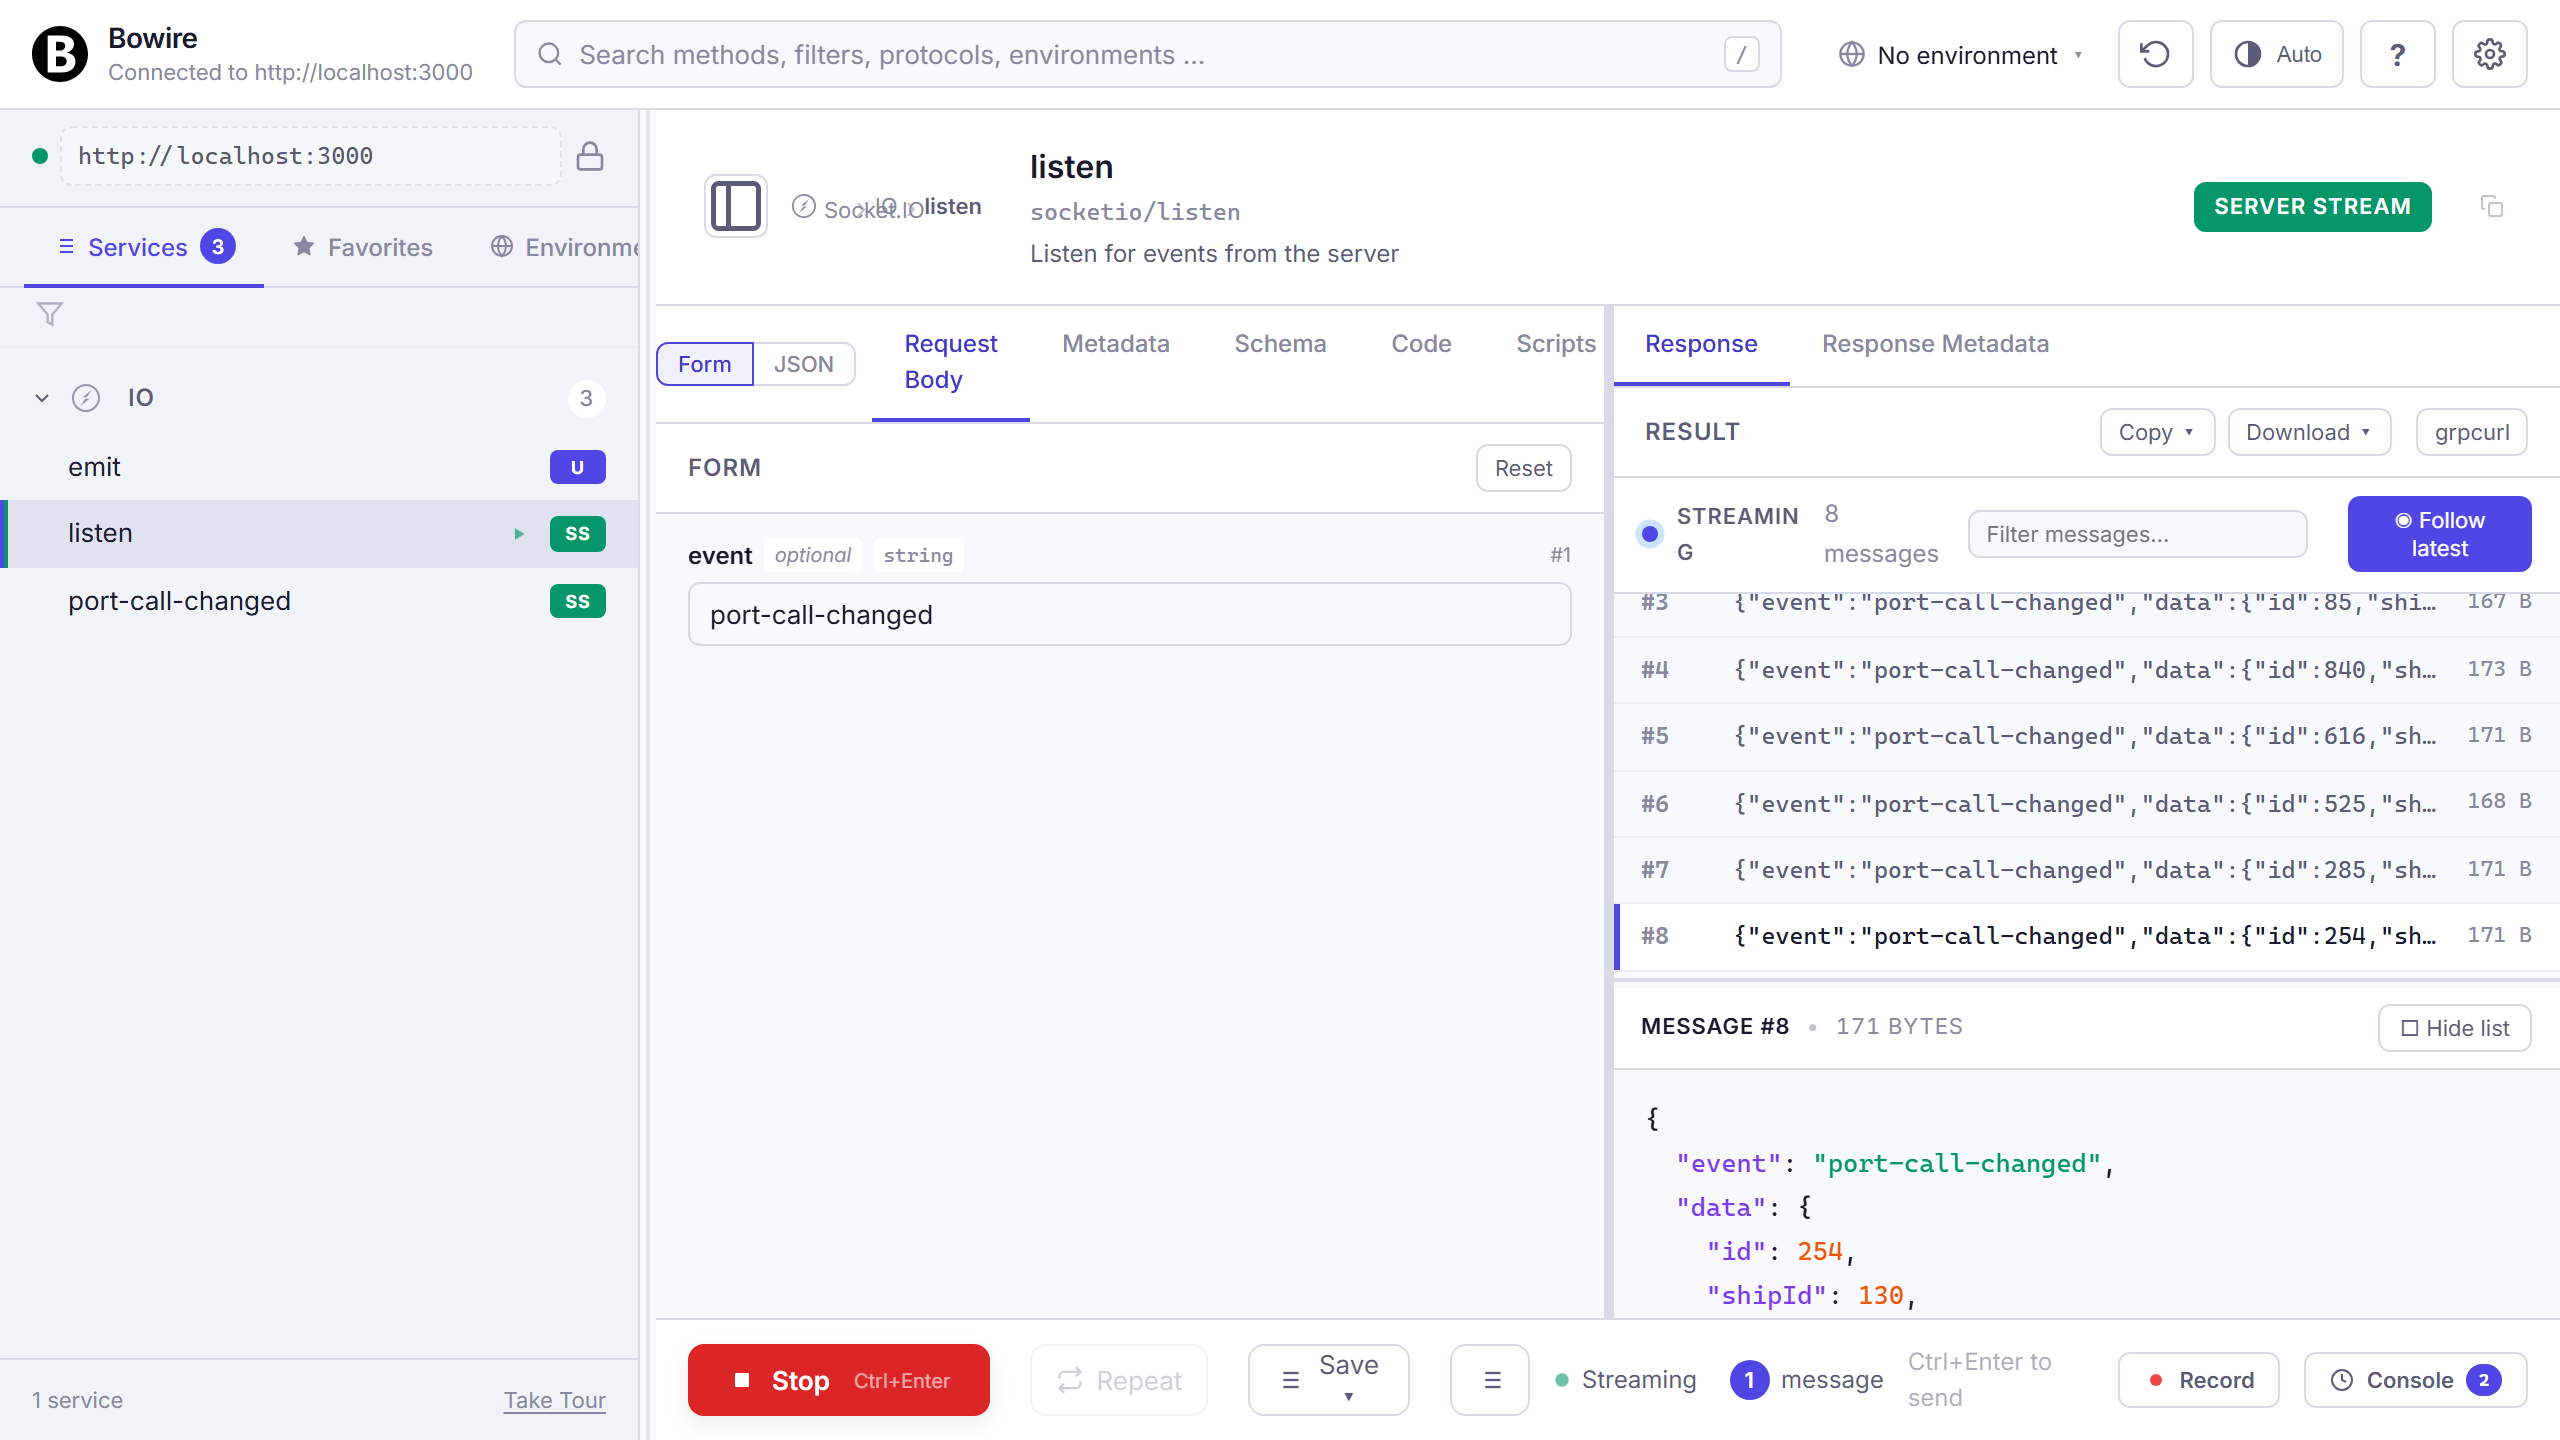
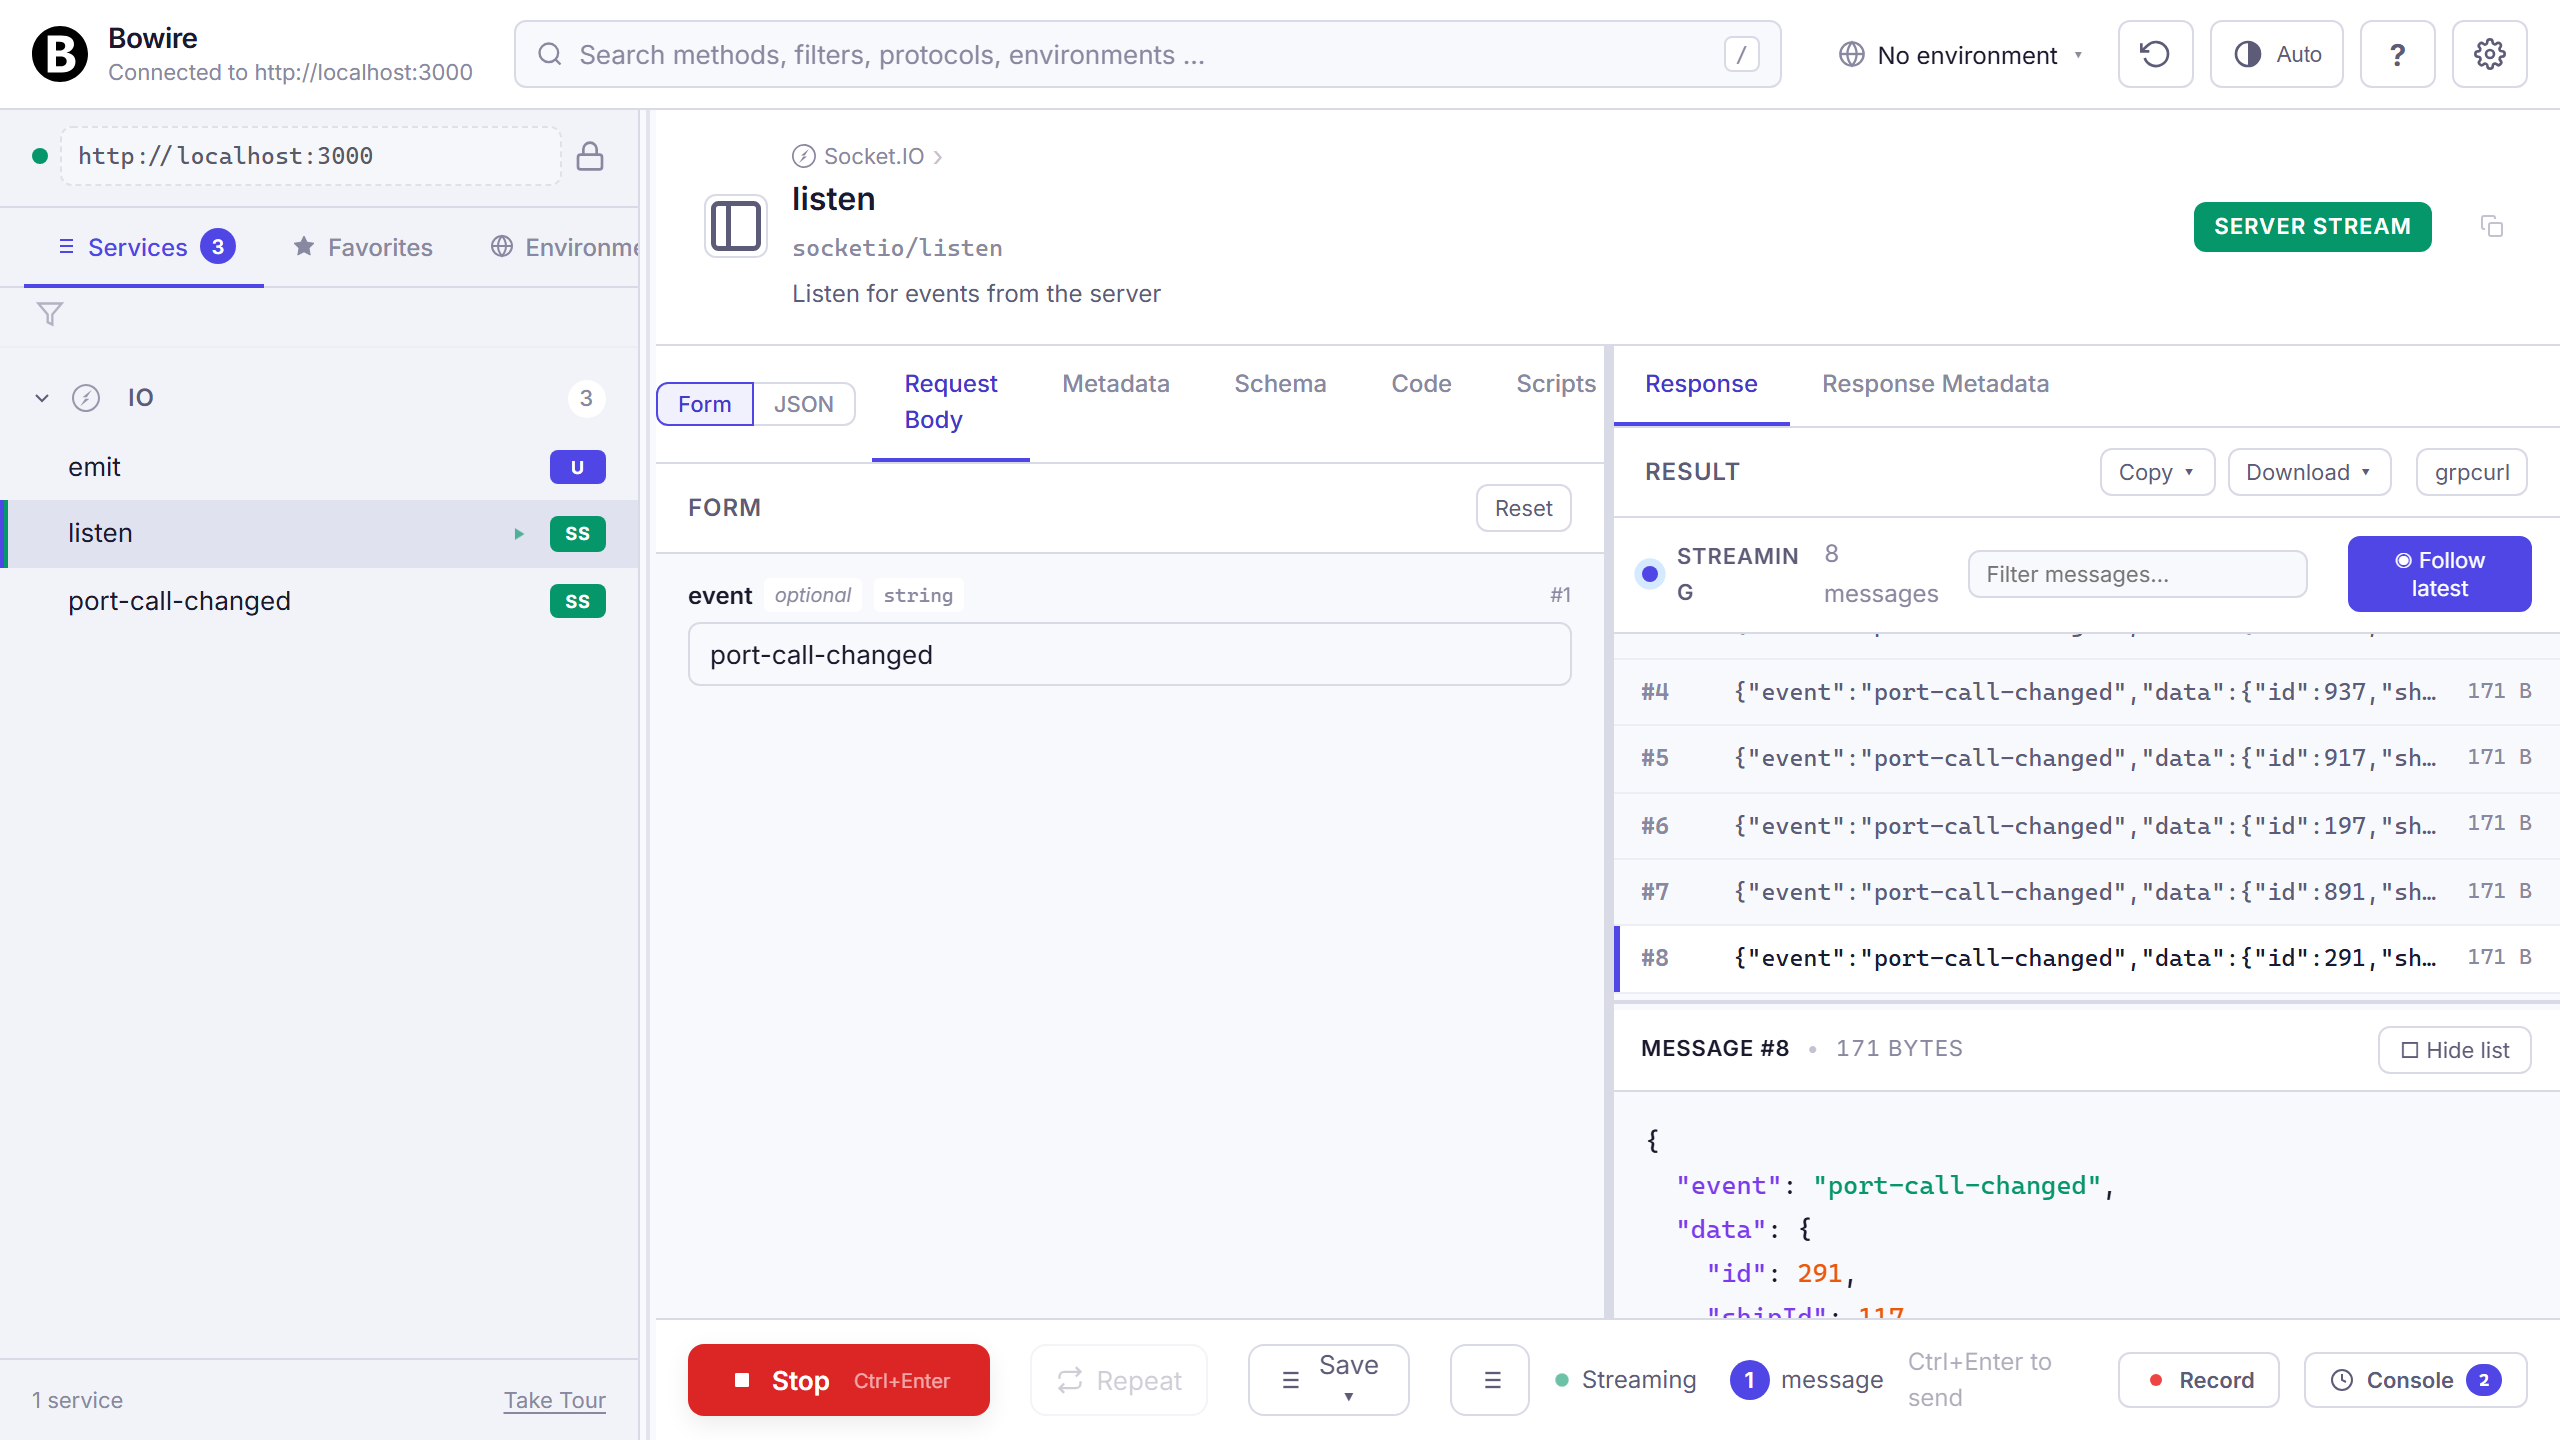
release: 1.0.10 — method-detail header layout fix
Reported on the Socket.IO protocol-card popup screenshot: the
header rendered the protocol name `Socket.IO` inside a 12×12 icon
slot, which let it overflow horizontally and collide with the
large method-name title (`Sock|listen|tIO` artefact). Plus the
method name was duplicated — once as the breadcrumb's current
segment, once as the prominent header title.

Fixes
- render-main.js used `bowire-breadcrumb-icon` (12×12) for the
  multi-character protocol-name span. Switched to
  `bowire-breadcrumb-item` so the text flows in a normal inline
  span. Removes the `Sock|...|tIO` overlap.
- Method-name duplication — drop the breadcrumb's terminal method
  segment. Breadcrumb now reads `Protocol > Service`, the method
  name is the title alone.
- Service-name dot-prefix trim was too aggressive —
  `selectedService.name.split('.').pop()` turned `Socket.IO` into
  `IO` and `Akka.Actor.Tap` into `Tap`. Only trim when the last
  segment is ≥ 4 characters.
- Suppress the service segment entirely when it would duplicate
  the protocol name (single-service plugins like Socket.IO where
  the service is literally named `Socket.IO`). No more
  `Socket.IO > Socket.IO`.

Layout structure
- `bowire-header-info` is now a column-flex container that holds
  breadcrumb → method-name → fullName-path → summary. Previously
  breadcrumb sat as a sibling row to the right of the toggle
  button, so a short Protocol > Service trail and a short method
[…]

diff --git a/src/Kuestenlogik.Bowire/wwwroot/js/render-main.js b/src/Kuestenlogik.Bowire/wwwroot/js/render-main.js
@@ -733,8 +733,10 @@
         header.appendChild(toggleBtn);
 
         if (selectedMethod) {
-            // Breadcrumb: Protocol > Service > Method — each segment
-            // is clickable to navigate up one level.
+            // Breadcrumb: Protocol > Service. The method name is rendered
+            // separately as headerName below (at a much larger size), so
+            // leaving it out of the breadcrumb avoids the visual stutter
+            // that used to put two `listen`s next to each other.
             var breadcrumb = el('div', { className: 'bowire-breadcrumb' });
             if (selectedService && selectedService.source) {
                 var proto = protocols.find(function (p) { return p.id === selectedService.source; });
@@ -754,14 +756,45 @@
                             }
                         }
                     }));
-                    breadcrumb.appendChild(el('span', { className: 'bowire-breadcrumb-icon', textContent: proto.name }));
+                    // BUG fix: this used to use 'bowire-breadcrumb-icon'
+                    // (the 12×12 icon slot) for a multi-character text label,
+                    // which let the protocol name overflow its container and
+                    // collide with whatever sat to the right of the breadcrumb.
+                    breadcrumb.appendChild(el('span', { className: 'bowire-breadcrumb-item', textContent: proto.name }));
                     breadcrumb.appendChild(el('span', { className: 'bowire-breadcrumb-sep', textContent: '\u203A' }));
                 }
             }
             if (selectedService) {
-                breadcrumb.appendChild(el('span', {
-                    className: 'bowire-breadcrumb-item clickable',
-                    textContent: selectedService.name.split('.').pop(),
+                // Service is the breadcrumb's terminal segment now \u2014 the
+                // method name is rendered separately as headerName below
+                // (and at a much larger size), so duplicating it inside
+                // the breadcrumb just produced a `\u2026 \u203A listen   listen`
+                // visual stutter at narrow widths.
+                // Trim the namespace prefix only when it looks like a
+                // proto-style FQN (e.g. `weather.WeatherService` → `WeatherService`).
+                // Service names that *end* with a dotted token (e.g. `Socket.IO`,
+                // `Akka.Actor.Tap`) keep their full name — splitting them would
+                // produce nonsense like `Socket.IO` → `IO`.
+                var svcDisplayName = selectedService.name;
+                if (svcDisplayName.includes('.')) {
+                    var lastToken = svcDisplayName.split('.').pop();
+                    if (lastToken.length >= 4) svcDisplayName = lastToken;
+                }
+
+                // When the service name matches the plugin's display name
+                // exactly (e.g. Socket.IO plugin exposes one service literally
+                // named 'Socket.IO'), drop this segment so the breadcrumb
+                // doesn't read 'Socket.IO > Socket.IO'. Multi-service
+                // protocols like gRPC have per-call distinct names so this
+                // only kicks in for single-service plugins.
+                var protoForCheck = selectedService.source
+                    ? protocols.find(function (p) { return p.id === selectedService.source; })
+                    : null;
+                var skipServiceSegment = protoForCheck && protoForCheck.name === svcDisplayName;
+
+                if (!skipServiceSegment) breadcrumb.appendChild(el('span', {
+                    className: 'bowire-breadcrumb-item current',
+                    textContent: svcDisplayName,
                     title: selectedService.name,
                     onClick: function () {
                         // Expand this service in the sidebar, close active tab
@@ -775,13 +808,7 @@
                         }
                     }
                 }));
-                breadcrumb.appendChild(el('span', { className: 'bowire-breadcrumb-sep', textContent: '\u203A' }));
             }
-            breadcrumb.appendChild(el('span', {
-                className: 'bowire-breadcrumb-item current',
-                textContent: selectedMethod.name
-            }));
-            header.appendChild(breadcrumb);
 
             var headerName = el('div', { className: 'bowire-header-method' + (selectedMethod.deprecated ? ' deprecated' : '') });
             headerName.appendChild(document.createTextNode(selectedMethod.name));
@@ -789,7 +816,13 @@
                 headerName.appendChild(el('span', { className: 'bowire-header-deprecated', textContent: 'DEPRECATED' }));
             }
 
+            // Stack breadcrumb + method-name + path + summary vertically
+            // inside the same column-flex container. Previously breadcrumb
+            // sat in a sibling row to the right of the toggle button, so a
+            // short Protocol > Service trail and a short method name landed
+            // on the same horizontal axis and overlapped at narrower widths.
             const info = el('div', { className: 'bowire-header-info' },
+                breadcrumb,
                 headerName,
                 el('div', { className: 'bowire-header-path', textContent: selectedMethod.fullName })
             );

diff --git a/src/Kuestenlogik.Bowire/wwwroot/bowire.css b/src/Kuestenlogik.Bowire/wwwroot/bowire.css
@@ -1947,6 +1947,9 @@ img.bowire-logo-icon {
 .bowire-header-info {
     flex: 1;
     min-width: 0;
+    display: flex;
+    flex-direction: column;
+    gap: 2px;
 }
 
 .bowire-header-method {
@@ -4116,14 +4119,17 @@ details[open] > .bowire-json-tree-summary::before {
 }
 .bowire-header-copy-url svg { width: 100%; height: 100%; }
 
-/* Breadcrumb navigation: Protocol > Service > Method */
+/* Breadcrumb navigation: Protocol > Service. Sits inside .bowire-header-info
+ * stacked above the method-name title — it provides the navigational
+ * context, the headerName provides the prominent label.
+ */
 .bowire-breadcrumb {
     display: flex;
     align-items: center;
     gap: 4px;
-    margin-right: 12px;
     font-size: 11px;
     color: var(--bowire-text-tertiary);
+    line-height: 1;
 }
 .bowire-breadcrumb-item {
     display: inline-flex;

diff --git a/CHANGELOG.md b/CHANGELOG.md
@@ -1,5 +1,43 @@
 # Changelog
 
+## v1.0.10 — Method-detail header layout fix (2026-05-05)
+
+### Fixes
+- **Method-detail header rendered the protocol name in a 12×12 icon
+  slot**, which let it overflow horizontally and collide with the
+  large method-name title on the right. Most visible on Socket.IO
+  where it produced a `Sock|listen|tIO` overlap. The protocol-name
+  span now uses the regular `bowire-breadcrumb-item` class so it
+  flows alongside its sibling tokens.
+- **Method name was duplicated** — once as the breadcrumb's
+  current segment, once as the prominent header title. Dropped
+  the breadcrumb's method segment; breadcrumb now reads
+  `Protocol > Service` and the method name is the title alone.
+- **Service-name dot-prefix trim was too aggressive** —
+  `selectedService.name.split('.').pop()` turned `Socket.IO` into
+  `IO` and `Akka.Actor.Tap` into `Tap`. Trim only when the last
+  segment is at least 4 characters; otherwise show the full name.
+- **Service segment is suppressed entirely** when it would just
+  duplicate the protocol name (single-service plugins like
+  Socket.IO, where service-name == plugin-name). No more
+  `Socket.IO > Socket.IO`.
+
+### Site / docs
+- Re-captured `streaming-socketio-{dark,light}.png` and
+  `streaming-mqtt-{dark,light}.png` with the new vertically-stacked
+  header. The other protocol-card screenshots have distinct
+  service names so the old horizontal layout already rendered
+  cleanly there — they'll pick up the same vertical stack on the
+  next refresh but no visual regression today.
+
+### Layout structure
+- `bowire-header-info` is now a column-flex container that holds
+  breadcrumb → method-name → fullName-path → optional summary.
+  Previously breadcrumb sat as a sibling row to the right of the
+  toggle button, which let a short Protocol > Service trail land
+  on the same horizontal axis as a short method-name title and
+  overlap at narrow widths.
+
 ## v1.0.9 — HttpClient factory + gRPC SocketsHttpHandler + Socket.IO fix (2026-05-05)
 
 Stable release of the cert-trust generalisation. Promotes the rc.1 +

diff --git a/ROADMAP.md b/ROADMAP.md
@@ -2,6 +2,13 @@
 
 ## Completed
 
+### v1.0.10 — Method-detail header layout fix (2026-05-05)
+- [x] **Protocol-name in icon slot** — render-main.js used `bowire-breadcrumb-icon` (12×12) for the multi-character protocol-name span; the text overflowed the slot and collided with the method-title on the right. Most visible on Socket.IO. Fixed to `bowire-breadcrumb-item`.
+- [x] **Method-name duplicated** in breadcrumb + headerName. Breadcrumb now ends at the service segment; method name is the prominent title alone.
+- [x] **Service-name dot-trim too aggressive** — `Socket.IO` → `IO`. Now only trims when the last segment is ≥ 4 characters.
+- [x] **Service segment suppressed** when it duplicates the plugin name (Socket.IO single-service case). No more `Socket.IO > Socket.IO`.
+- [x] **`bowire-header-info` is now column-flex** stacking breadcrumb → method-name → path → summary vertically. Avoids the side-by-side overlap that produced the original `Sock|listen|tIO` artefact.
+
 ### v1.0.9 — HttpClient factory + gRPC SocketsHttpHandler + Socket.IO fix (2026-05-05)
 - [x] **gRPC plugin migrated** to `BowireHttpClientFactory.CreateSocketsHttpHandler` for the non-mTLS HTTP/2 path. Closes the rc.1 follow-up. Cert-trust opt-in (`Bowire:TrustLocalhostCert`) now covers every TLS-bearing plugin (gRPC, REST, GraphQL, SignalR, WebSocket, SSE, MCP, OData).
 - [x] **rc.1 + rc.2 + final** released as the first successful application of the new versioning discipline. rc.2 caught a Socket.IO payload bug (`response.ToString()` returned the type name); rc.1 didn't smoke-test the Socket.IO sample.
